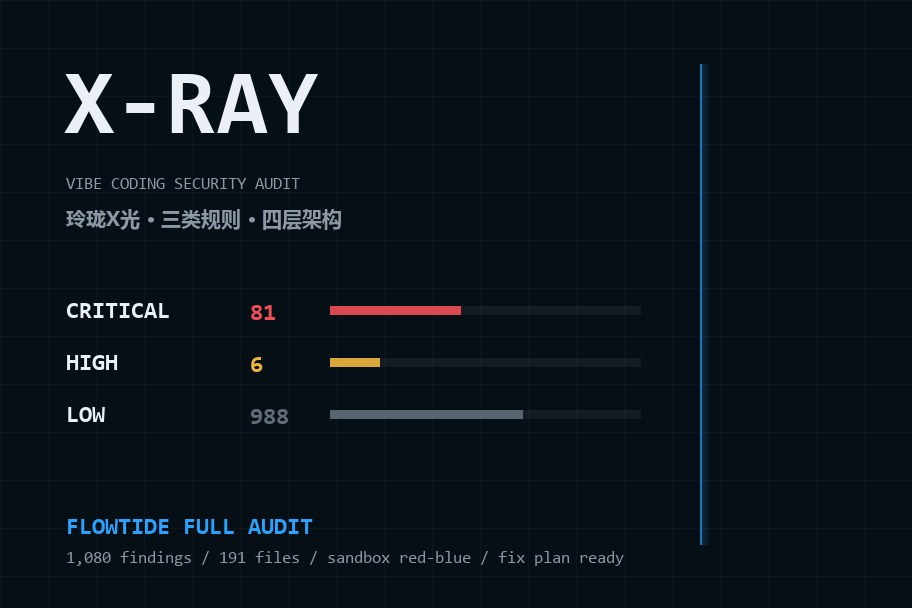
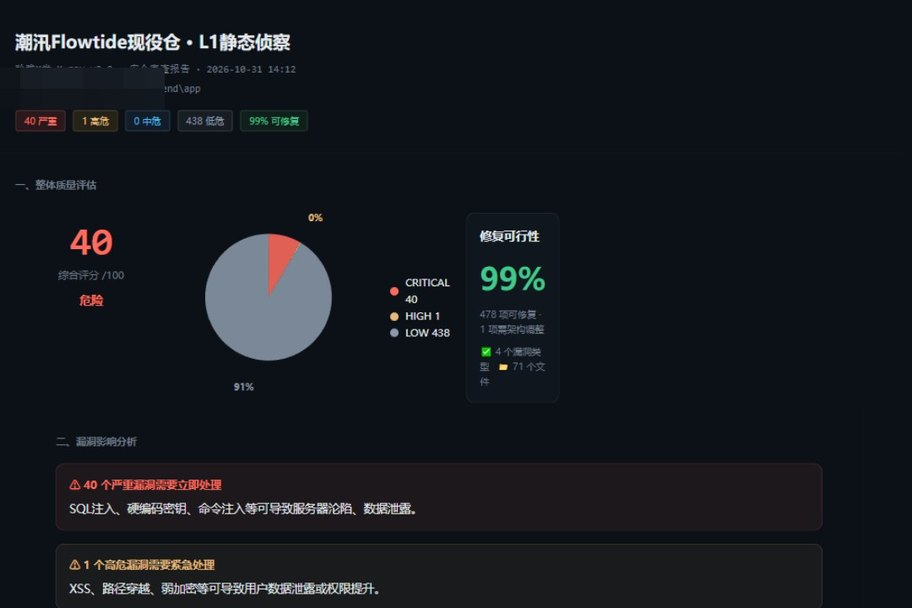
卡 2/卡 4 封面换界面实拍；修正旗舰位对调时漏换的数组位置
- 卡 4 镜面：封面换更新后工作台「主题画廊」实拍（原 PIL 海报备份 _tmp）
- 卡 2 X 光：封面换潮汛 L1 报告实拍（路径已打码；原数据海报备份 _tmp）
- alt 数据驱动：CONTENT 加 coverAlt（镜面「工作台实拍」/X 光「报告实拍」），
  其余维持「概念封面」；页脚与 llms 口径同步「镜面与 X 光为界面实拍，余为概念图」
- 缩略图版本号 bump ?v=20261031
- 修正：旗舰位对调上次只换了 kicker/CASEFILE/文件名，CONTENT 数组位置没换——
  第 4 卡仍是之眼条目却配镜面截图（图文不符）。已真正交换两条目位置，
  验证 kicker 01-09 顺序、四卡 alt/图/链接三者一致

diff --git a/index.html b/index.html
@@ -934,7 +934,7 @@ html.cc, html.cc * { cursor: none !important; }
 
   <footer>
     <div class="foot-big" aria-hidden="true">REMI</div>
-    REMI © 2026 · 零虚构：每个数字都能现场复跑；卡片是概念封面，点进去的交互 DEMO、真机截图与口径才是证据 · <a href="./os/">证据墙 / 时光机：RemiOS 桌面宇宙 ↗</a>
+    REMI © 2026 · 零虚构：每个数字都能现场复跑；卡片是封面（镜面与 X 光为界面实拍，余为概念图），点进去的交互 DEMO、真机截图与口径才是证据 · <a href="./os/">证据墙 / 时光机：RemiOS 桌面宇宙 ↗</a>
   </footer>
 </div>
 
@@ -980,24 +980,24 @@ const CONTENT = {
     { id: 'huodai-mask', kicker: 'CASE 01 · 行业落地', title: '潮汛 · 货代业务自动化平台', tag: '订单/客户/邮件/RPA 四域打通，业务能力封装为 MCP 工具供 Agent 调用；2800+ 项测试护着这套工具层，关键发送必须过人。',
       nav: ['潮汛平台', '播放一封询价邮件的 Agent 处理全程，再看 MCP 工具面板。'],
       metrics: ['发送前人工确认', '订单 · 客户 · 邮件 · RPA', '业务能力 MCP 插件化', '脱敏屏障 · 验收全过'] },
-    { id: 'xray-audit', kicker: 'CASE 02 · 安全审查', title: '玲珑X光 X-ray · Vibe Coding 代码安全审查', tag: 'Vibe Coding 产物上线前的安全审查引擎：20 条规则三类覆盖，静态侦察 → 红蓝对抗 → 自进化；潮汛全链路实测 1080 项发现、191 个文件秒级扫完，修什么它替你排好优先级。',
+    { id: 'xray-audit', coverAlt: '玲珑X光潮汛审查报告实拍', kicker: 'CASE 02 · 安全审查', title: '玲珑X光 X-ray · Vibe Coding 代码安全审查', tag: 'Vibe Coding 产物上线前的安全审查引擎：20 条规则三类覆盖，静态侦察 → 红蓝对抗 → 自进化；潮汛全链路实测 1080 项发现、191 个文件秒级扫完，修什么它替你排好优先级。',
       nav: ['代码安全审查', '真实项目扫出 1080 项发现，红蓝对抗筛误报，修复优先级排好。'],
       metrics: ['20 条规则 · 三类覆盖', 'L1→L4 四层架构', '250 项测试锁定', '潮汛实测 1080 项发现'] },
     { id: 'miku-privacy', kicker: 'CASE 03 · 隐私合规', title: '玲珑秘库 · 大模型隐私安全隔离', tag: '企业双端可见真实数据，云端大模型只处理加密占位符——政企用公有云大模型的零泄密前提，外泄风险降为 0。',
       nav: ['隐私隔离', 'LLM 全程只见占位符。点场景③，看它敢转人工。'],
       metrics: ['双端可见真实数据', '云端仅见加密占位符', '外泄风险降为 0', '占位符还原 · 验收 7/7'] },
-    { id: 'reyes-video', kicker: 'CASE 07 · 内容生产自动化', title: '玲珑之眼 · AIGC 视频生产线', tag: '讲稿进、成片出：白板动画、配音、字幕、合成全自动；产线 v8 上 222 项测试锁定，真实课程验证。',
-      nav: ['视频生产线', '输入一句讲稿，看五站流水线依次点亮，最后出片。'],
-      metrics: ['产线 v8 · 回归锁定', '讲稿 → 成片 全自动', '真实课程验证', '五站 · 每站可测'] },
+    { id: 'mirror-value', coverAlt: '玲珑镜面工作台实拍（主题画廊）', kicker: 'CASE 04 · 自适应界面引擎', title: '玲珑镜面 Mirror · 声明即界面', tag: '写一段功能意图声明，界面自动长出来；主题一键换肤带 AA 门禁。',
+      nav: ['价值感知', '拖滑块，看画像卡实时升降级。'],
+      metrics: ['声明进 → 界面出', '一键换肤 · AA 门禁', '五道门禁全过', '每条决策带理由'] },
     { id: 'yisheng-engine', kicker: 'CASE 05 · 统计建模', title: '爻胜 · 赛事预测统计引擎', tag: '913 场校准的 Elo + Dixon-Coles 统计模型，滚动回测检验：准确率与校准误差双双达标——统计严谨性的可验证样本。',
       nav: ['赛事预测', '选两支队，浏览器实算真实 Elo 预期胜率。'],
       metrics: ['913 场校准', '回测 61.9%', 'ECE 可达标', 'Rust 引擎 · 桌面端'] },
     { id: 'novel-engine', kicker: 'CASE 06 · 创作工程化', title: '玲珑小说引擎 · 把生产做成工程', tag: '单一真相源+代码化校验+短上下文执行，2499 项测试守着有质量门的流水线。',
       nav: ['小说生产工程化', '廉价翻转和半角标点在重写之前被拦下。点审校现场跑。'],
       metrics: ['2499 测试', 'TDD 质量门', '方法论矩阵', '百章压测 runner'] },
-    { id: 'mirror-value', kicker: 'CASE 04 · 自适应界面引擎', title: '玲珑镜面 Mirror · 声明即界面', tag: '写一段功能意图声明，界面自动长出来；主题一键换肤带 AA 门禁。',
-      nav: ['价值感知', '拖滑块，看画像卡实时升降级。'],
-      metrics: ['声明进 → 界面出', '一键换肤 · AA 门禁', '五道门禁全过', '每条决策带理由'] },
+    { id: 'reyes-video', kicker: 'CASE 07 · 内容生产自动化', title: '玲珑之眼 · AIGC 视频生产线', tag: '讲稿进、成片出：白板动画、配音、字幕、合成全自动；产线 v8 上 222 项测试锁定，真实课程验证。',
+      nav: ['视频生产线', '输入一句讲稿，看五站流水线依次点亮，最后出片。'],
+      metrics: ['产线 v8 · 回归锁定', '讲稿 → 成片 全自动', '真实课程验证', '五站 · 每站可测'] },
     { id: 'shiyang-solver', kicker: 'CASE 08 · 约束求解', title: '玲珑食养 · 约束求解体验', tag: '中医食疗 × 营养学 × CP-SAT。预算砍到不可行，它回溯软化给你看；448 项测试护着求解器。',
       nav: ['约束求解', '预算拖到 ¥20，看它回溯软化不装死。'],
       metrics: ['L1-L4 四层约束', '回溯软化', '求解器有测试护着', 'V1-V12 符号否决'] },
@@ -1416,7 +1416,7 @@ $('#caseList').innerHTML =
     '<a href="case/' + CASEFILE[c.id] + '"><div class="cn-n">CASE 0' + (i + 1) + '</div><div class="cn-t">' + esc(c.nav[0]) + '</div><div class="cn-d">' + esc(c.nav[1]) + '</div></a>').join('') + '</div>' +
   '<div class="case-grid">' + CONTENT.cases.slice(0, 4).map((c, i) =>
   '<a class="case-card" href="case/' + CASEFILE[c.id] + '">' +
-    '<img class="case-thumb" src="case/assets/shot-0' + (i + 1) + '.jpg?v=20261030b" alt="' + esc(c.nav[0]) + '概念封面" loading="lazy" width="912" height="608">' +
+    '<img class="case-thumb" src="case/assets/shot-0' + (i + 1) + '.jpg?v=20261031" alt="' + esc(c.coverAlt || (c.nav[0] + '概念封面')) + '" loading="lazy" width="912" height="608">' +
     '<p class="case-kicker rv">' + esc(c.kicker) + '</p>' +
     '<h3 class="case-title rv">' + esc(c.title) + '</h3>' +
     '<p class="case-tag rv">' + esc(c.tag) + '</p>' +
